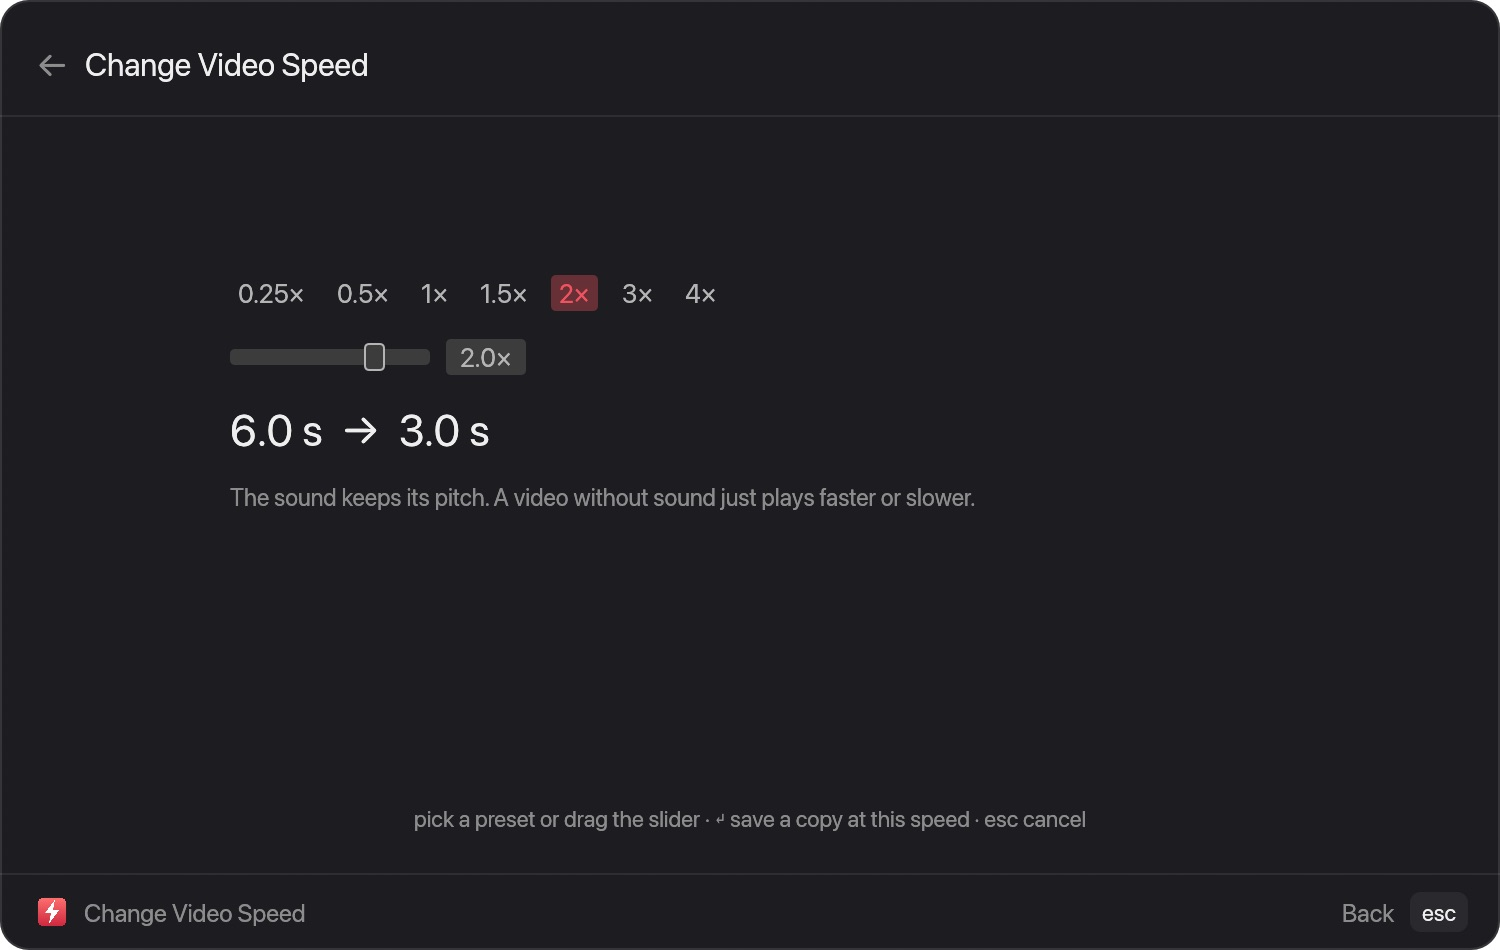
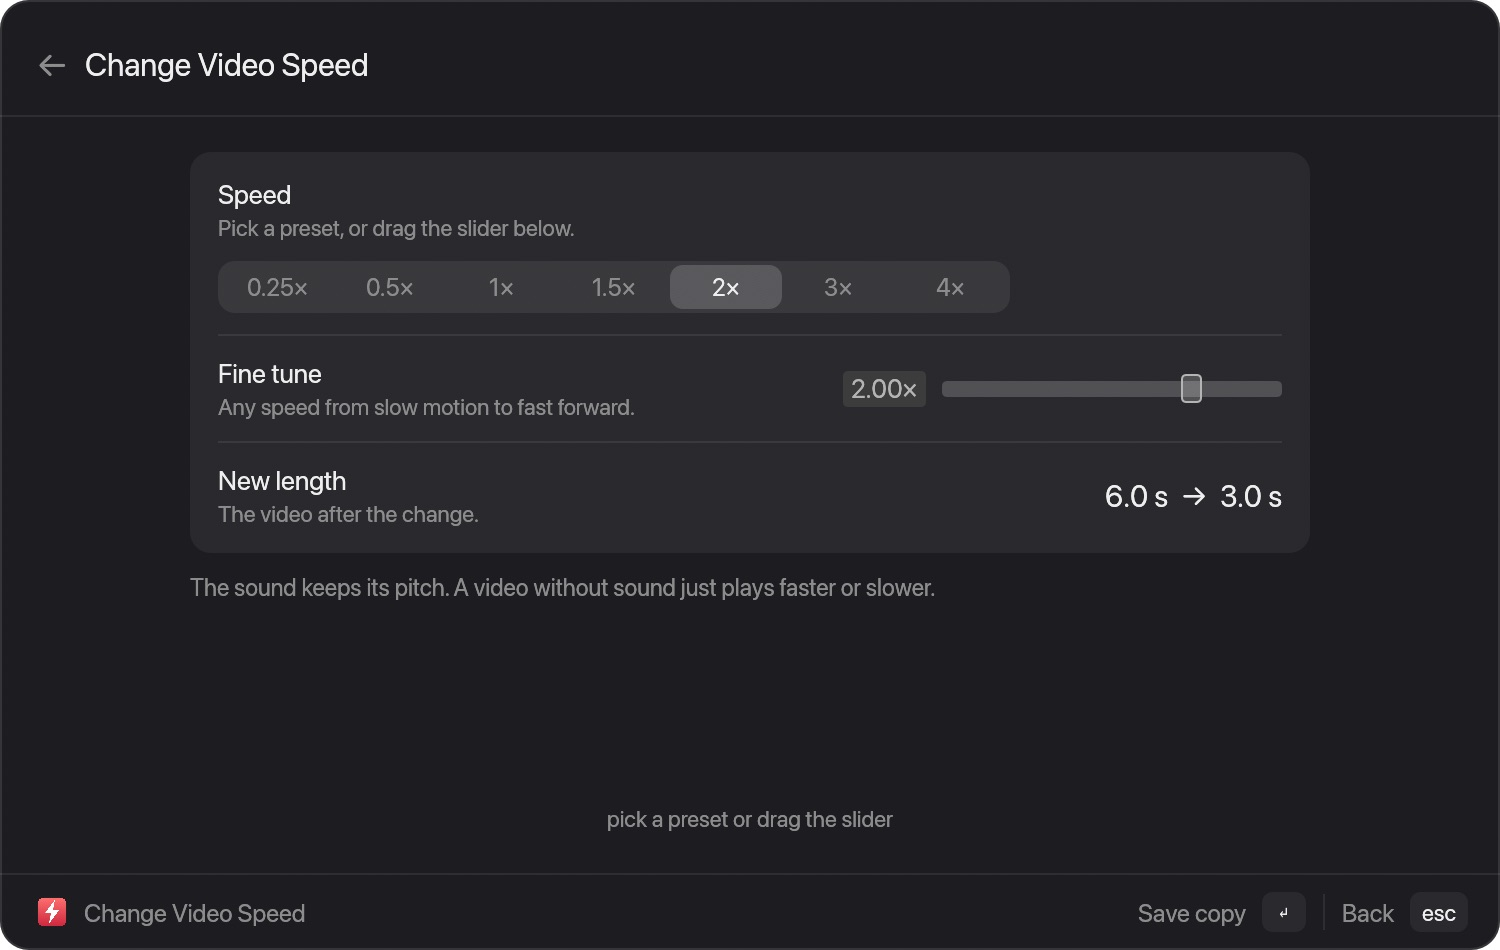
web: reproducible gallery script and refreshed pictures

diff --git a/odd/tasks/file-tools.md b/odd/tasks/file-tools.md
@@ -292,3 +292,5 @@ Goal: bring Tangerine for Mac's capabilities into Ferrocast, local-only, same in
 - L124 UI consistency pass, unit U4a (light theme review and polish), written by worker mvhwdh9d-5-r67m (allowed surfaces draw.rs, app.rs, tests.rs; app.rs untouched), re-checked by me. The worker shot 29 windows in LIGHT and DARK at 750 pt (/tmp/u4a_<window>_{light,dark}.png, before-set in /tmp/u4a_before/) and read every image. Three real defects fixed in draw.rs: (a) the faint separator under the LAST row of every card (row_impl delegates to a new row_body with identical Settings output; the form helpers use row_body and form_sep so each row draws the line of the row ABOVE it and card() clears the pending line; Settings keeps the same line on its last row and was left alone, cmp-identical in dark and against its own pre-change light shot); (b) slider rails invisible on a light card (egui's default rail is grey 230): in the style block widgets.inactive.bg_fill is now palette(dark).sel.gamma_multiply(2.0), which also lifts the dark rail; (c) colour swatches lost their edge (black on a dark card, white on a light card): a new swatch_dot draws a 1 px pal.border ring at the 6 swatch sites in Collage, Add Background, Redact Image and Annotate. Contrast measured over a white and a black backdrop (the window fill is translucent), NO token changed: text on bg/card 14.0-16.0 (light) and 12.3-15.4 (dark) against the 4.5 target, secondary text on bg/card 3.72-4.23 (light) and 4.24-5.32 (dark) against 3.0, selected segment versus container 1.32 (light) and 1.68-1.70 (dark) against 1.3; light is the narrowest pair. Tests: the_last_row_of_a_form_card_draws_no_separator (RED by assertion: 'compress video: card 0 draws a separator at y=272 under its last row Resize'), slider_rail_stands_out_from_the_card_in_both_themes (RED: 'dark=false backdrop=0: the slider rail is 1.05 against its card, want >= 1.3'; now 1.38 light, 1.84 dark), colour_swatches_have_an_edge_that_shows_on_the_card (RED: 'add background dark=true: swatch #14_14_14_FF has no edge', reads the real shapes of 4 views in both themes). HONESTY: the Palette contrast test had NO genuine RED: its first failure ('selected segment vs its container is 1.04') was a bug in the test's own helper (it treated premultiplied Color32 as straight), so it only documents the numbers above and does not prove a fix. Worker gate: fmt 0, clippy 0, workspace 0 (255+301+4+36). Defects NOT fixed on purpose: the greyed 'longest edge 1600 px' hint when Resize is off (intended disabled look); Settings' hard-coded green marks (Granted / Signed in / Installed, 89,212,153) look low-contrast on a light card by eye, not measured, Settings was to stay unchanged; the Redact Image 'Cover' row label is top-aligned against centred controls (cosmetic). NOT proven: real mouse, real display and Retina rendering, actual macOS window translucency. I read the light screenshots in the gate step below.
 
 - L125 Flaky test fixed: crates/macos drag::tests::samples_without_a_drag asserted !left_down(), i.e. that the USER's physical left mouse button was not pressed while the suite ran, so it failed intermittently in my U1 and U2 gate runs (it passed alone and on rerun). The assertion on the physical state was removed; the test now only checks that sampling works (left_down() is called and discarded, modifier_bits, drag_count stability, drag_files). HONESTY: no RED was observed, a failing run would need the mouse button held (not reproducible from code here); the change is justified by the assertion depending on external state, not by a failing-then-passing run. crates/macos only: fmt 0, clippy 0, tests 36 passed (exit 0); the full workspace gate was not rerun for this one-line test change. Remaining weakness: drag_count could change if the user starts a drag during the two reads (very rare).
+
+- L126 UI consistency pass, unit U4b (web gallery refresh with a reproducible script), written by worker mvhx1rzu-6-wsig (allowed surfaces scripts/gallery.sh, web/public/img/files-*.jpg, Gallery.astro, files.astro, status.ts), re-checked by me. scripts/gallery.sh (new, 145 lines, macOS only; needs cargo, ffmpeg, ffprobe, sips, cupsfilter, perl; magick as fallback for the JPEG step) regenerates EVERY gallery picture from the app's own screenshot mode: a table at the top maps id -> view/env/file, sample inputs are built in a temp dir, each shot uses a private FERROCAST_DATA_DIR (a running Ferrocast holds the instance lock), perl alarm limits each shot to 40 s with a 3-try retry (the first run failed once on wheel-actions with an intermittent 'no screenshot'), JPEGs are 1500x950 quality 82, and the script fails if the total exceeds 3.2 MB; 'scripts/gallery.sh avis crop' regenerates only those ids. Result: the 23 old pictures regenerated with the new look (segmented controls, footer chips, cards, labelled wheels) plus 5 new ones (avis, avis-light, bleep, vredact, wheel-tools-video); wheel-actions now shows SEVEN segments with Zip and the alt text and caption in Gallery.astro were fixed to seven actions; 28 entries, 28 files. Total image bytes 2,183,845 before and 2910342 after (measured by me with stat). files.astro and status.ts were not edited (the 'Seven file actions' heading and the honesty note 'pictures of the windows, not recordings of use' were already right). Checks: the worker ran the script end to end (exit 0), npm run build (exit 0) and a browser check through Chrome's debugging protocol (NOT the Playwright MCP) at 390, 768 and 1280 px against astro preview on 127.0.0.1, stopped afterwards: 28/28 images naturalWidth 1500 x 950, one h1, no horizontal overflow, no console errors, 0 failed requests out of 106; the page was not looked at visually. I re-ran bash -n (0) and npm run build (0) and read wheel-actions, avis-light and annotate. Known defects: the Annotate sample marks are hard-coded in draw.rs and read poorly in the picture ('Check this' yellow on yellow, 'Zoom here' hidden by the magnifier); the wheel pictures keep a white backdrop (the screenshot mode has no transparency, as before); the avis picture shows the settings only, not a rendered video; the sample pictures are garish test patterns; the meta list is cut at the bottom (a scroll area). NOT proven: dark OS theme, browsers other than Chrome, slow connections. Site NOT published.
